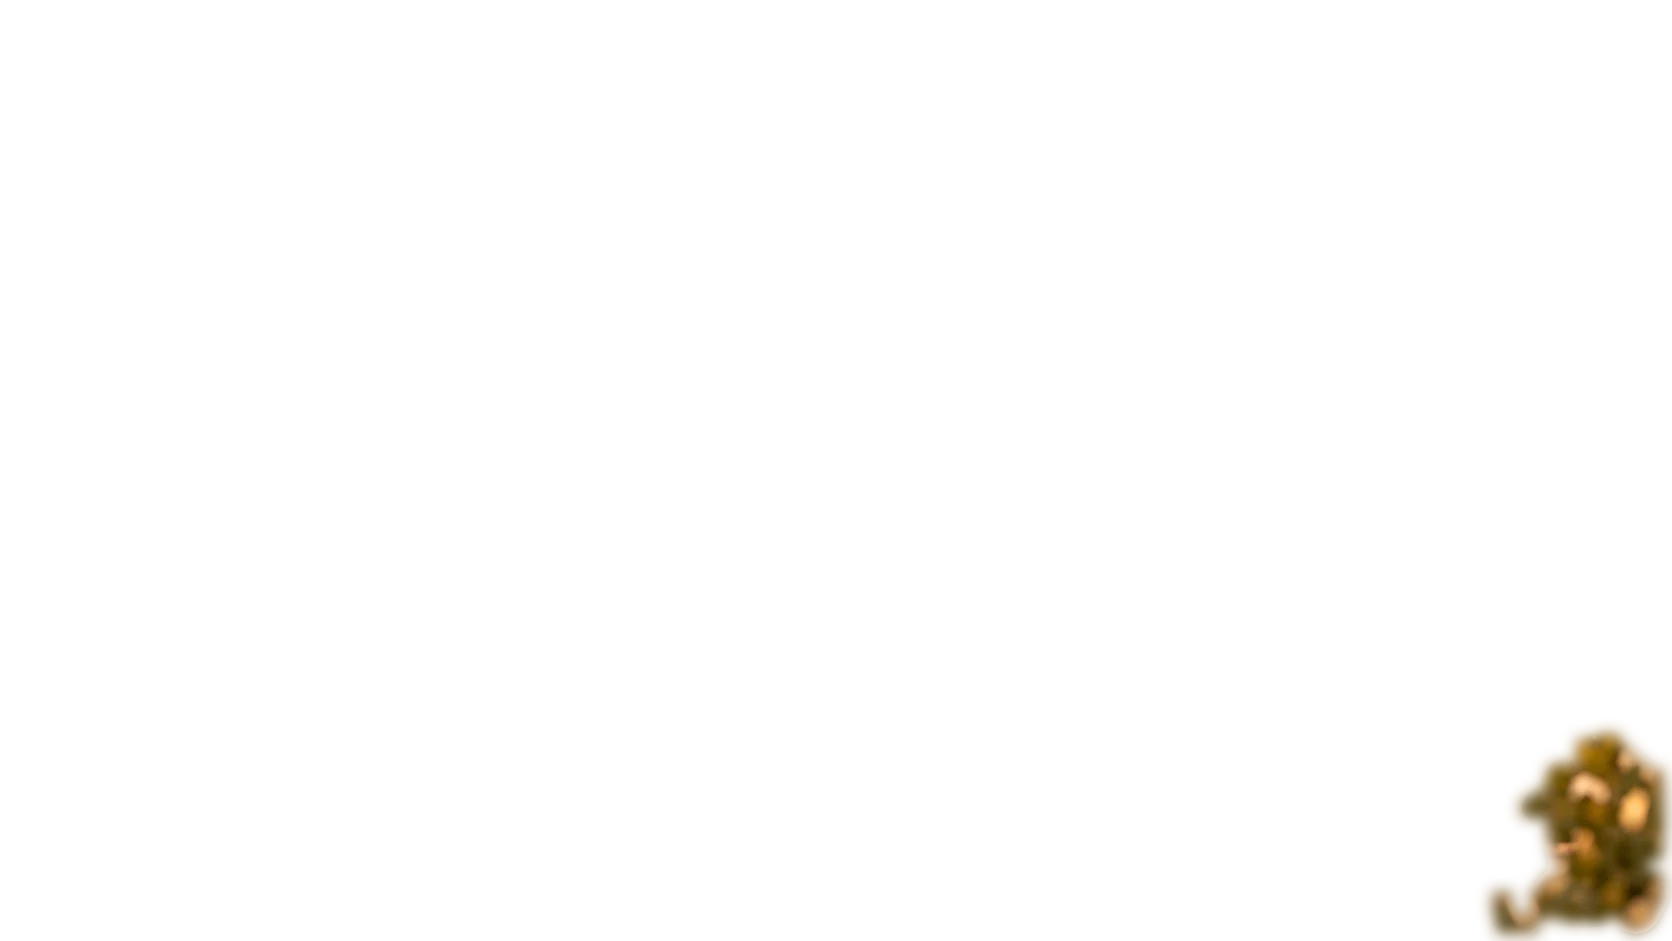
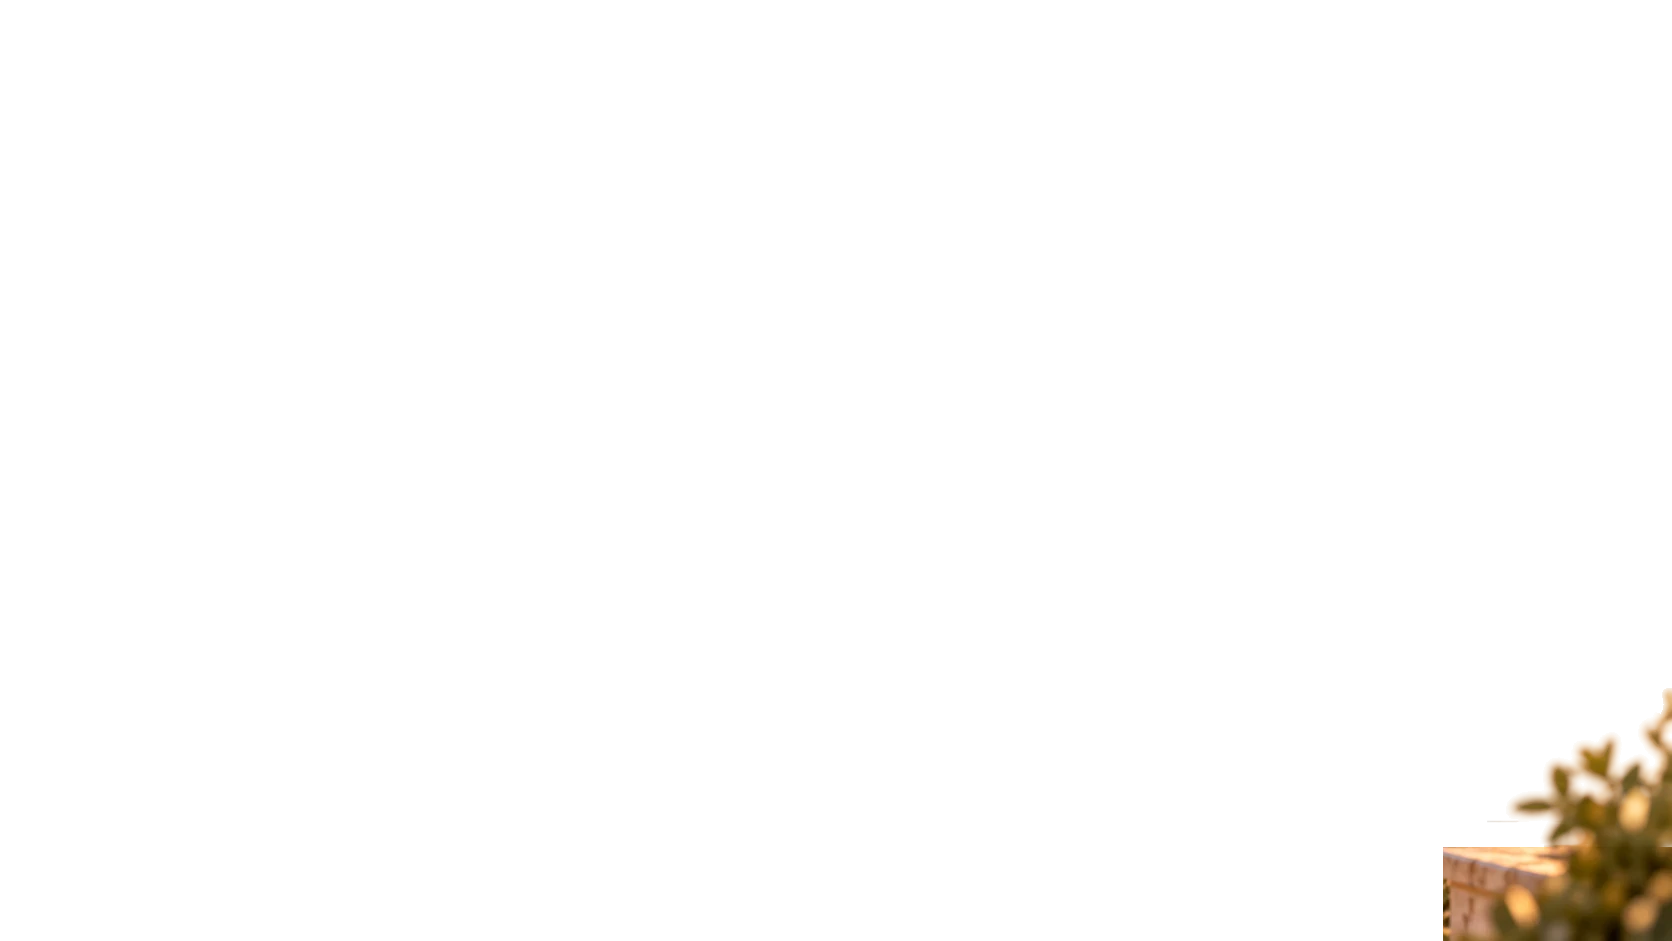
fix(frontend): matte the foliage from the approved mockups
Inicio keys the leaves against the board and keeps the marble cap in front.
Roadmap mattes the mockup against the app's own background, and its board
now fits the window so its bottom line matches the mockup.

Changed region(s): [[0.8397, 0.7088, 1.0, 1.0]]

diff --git a/frontend/src/pages/roadmap.css b/frontend/src/pages/roadmap.css
@@ -94,7 +94,7 @@
   display: grid;
   grid-template-columns: repeat(auto-fit, minmax(8rem, 1fr));
   row-gap: var(--space-5);
-  padding: 0 0 var(--space-2);
+  padding: 0;
   list-style: none;
 }
 
@@ -178,7 +178,31 @@
   font-size: var(--text-ui);
 }
 
-/* The current step, the board and its five columns share one window at 900px tall. */
+/* The current step and the whole board fit one window from 1440x900 up; at 1672x941 the board's
+   bottom line falls where the approved mockup has it, which is where the foliage was cut. */
+.roadmap {
+  gap: var(--space-5);
+}
+
+.roadmap .scenic__board {
+  gap: var(--space-3);
+  border-bottom-right-radius: 0;
+  padding-block: var(--space-4);
+}
+
+/* Here the band runs flush with the slab's bottom line, which continues behind the bush. */
+.roadmap .scenic__board::after {
+  bottom: 0;
+  background:
+    radial-gradient(circle at 100% 0, transparent var(--fillet), var(--color-board) calc(var(--fillet) + 0.5px))
+      0 0 / var(--fillet) var(--fillet) no-repeat,
+    linear-gradient(var(--color-board), var(--color-board)) 0 var(--fillet) / 100% 100% no-repeat;
+}
+
+.roadmap__board-head h2 {
+  line-height: var(--leading-hero);
+}
+
 .roadmap__current .scenic__action {
   margin-top: var(--space-4);
 }

diff --git a/frontend/src/pages/Roadmap.jsx b/frontend/src/pages/Roadmap.jsx
@@ -84,7 +84,7 @@ export default function Roadmap() {
   const track = tracks.find((t) => t.id === selected) ?? tracks[0];
 
   return (
-    <div className="scenic">
+    <div className="scenic roadmap">
       <div className="roadmap__top">
         <div className="scenic__hero">
           <h1>Roadmap</h1>
